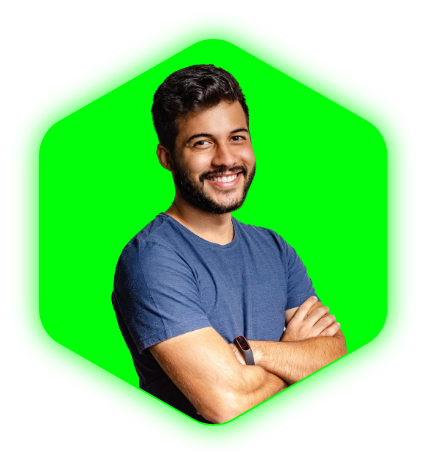
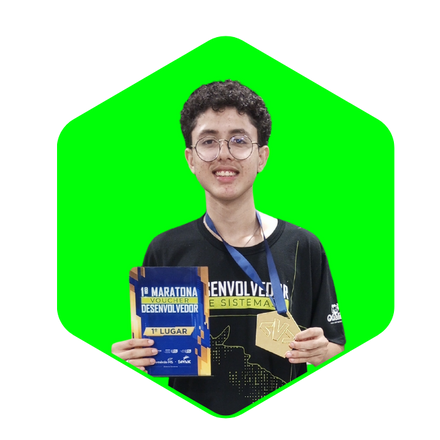
Ultima release

diff --git a/index.html b/index.html
@@ -3,44 +3,35 @@
 <head>
     <meta charset="UTF-8">
     <meta name="viewport" content="width=device-width, initial-scale=1.0">
-    <!-- GOOGLE FONTS -->
     <link rel="preconnect" href="https://fonts.googleapis.com">
     <link rel="preconnect" href="https://fonts.gstatic.com" crossorigin>
     <link href="https://fonts.googleapis.com/css2?family=Poppins:ital,wght@0,100;0,200;0,300;0,400;0,500;0,600;0,700;0,800;0,900;1,100;1,200;1,300;1,400;1,500;1,600;1,700;1,800;1,900&display=swap" rel="stylesheet">
-    <!-- FIM GOOGLE FONTES -->
-    <!-- BOOTSTRAP ICONS -->
     <link rel="stylesheet" href="https://cdn.jsdelivr.net/npm/bootstrap-icons@1.10.5/font/bootstrap-icons.css">
-    <!-- FIM BOOTSTRAP ICONS -->
     <link rel="stylesheet" href="style.css">
 
     <script src="menu.js" defer></script>
 
-    <title>Agência BRN</title>
+    <title>Carlos Eduardo</title>
 </head>
 <body>
     
     <header>
         <div class="interface">
-            <div class="logo">
-                <a href="#">
-                    <img src="images/logo.png" alt="Logo da Agência BRN">
-                </a>
-            </div><!--logo-->
 
             <nav class="menu-desktop">
                 <ul>
-                    <li><a href="#">Início</a></li>
-                    <li><a href="#">Especialidades</a></li>
-                    <li><a href="#">Sobre</a></li>
-                    <li><a href="#">Projetos</a></li>
+                    <li><a href="#especiliadades">Especialidades</a></li>
+                    <li><a href="#sobre">Sobre</a></li>
                 </ul>
             </nav>
 
             <div class="btn-contato">
-                <a href="#">
-                    <button>Contato</button>
+                <a href="Mailto:carlosborges2007edu@gmail.com">
+                    <button><i class="bi bi-envelope-fill"></i></button>
                 </a>
-            </div><!--btn-contato-->
+                <a href="https://www.linkedin.com/in/yonnnxr"><button><i class="bi bi-linkedin"></i></button></a>
+                <a href="https://github.com/yonnnxr"><button><i class="bi bi-github"></i></button></a>
+            </div>
 
             <div class="btn-abrir-menu" id="btn-menu">
                 <i class="bi bi-list"></i>
@@ -53,17 +44,14 @@
 
                 <nav>
                     <ul>
-                        <li><a href="#">Início</a></li>
-                        <li><a href="#">Especialidades</a></li>
-                        <li><a href="#">Sobre</a></li>
-                        <li><a href="#">Projetos</a></li>
-                        <li><a href="#">Contato</a></li>
+                        <li><a href="#especialidades">Especialidades</a></li>
+                        <li><a href="#sobre">Sobre</a></li>
                     </ul>
                 </nav>
 
-            </div><!--menu-mobile-->
+            </div>
             <div class="overlay-menu" id="overlay-menu"></div>
-        </div><!--interface-->
+        </div>
     </header>
 
     <main>
@@ -71,121 +59,84 @@
             <div class="interface">
                 <div class="flex">
                     <div class="txt-topo-site">
-                        <h1>TRANSFORMANDO IDEIAS EM REALIDADE DIGITAL<span>.</span></h1>
-                        <p>Criatividade e inovação andam lado a lado. Com uma combinação única de design impactante, funcionalidade intuitiva e otimização para resultados, estou pronto(a) para criar a presença online dos seus sonhos.</p>
+                        <h1>Olá, Eu me chamo Carlos Eduardo e sou estudante de <span>Desenvolvimento De Sistemas.</span></h1>
+                        <p>Olá meu nome é Carlos Eduardo, um estudante de Desenvolvimento de Sistemas em constante evolução!
+                            
+                            Atualmente, estou explorando diferentes tecnologias e buscando aprimorar meus conhecimentos em PHP , Javascript e C++. Convido você a me conhecer melhor através do meu LinkedIn e GitHub, onde compartilho minhas experiências e aprendizados.</p>
 
                         <div class="btn-contato">
-                            <a href="#">
-                                <button>Entre em contato</button>
+                            <a href="https://github.com/yonnnxr">
+                                <button>Veja meus Projetos</button>
                             </a>
                         </div>
-                    </div><!--txt-topo-site-->
+                    </div>
 
                     <div class="img-topo-site">
                         <img src="images/pessoa.png" alt="">
-                    </div><!--img-topo-site-->
-                </div><!--flex-->
-            </div><!--interface-->
-        </section><!--topo-do-site-->
+                    </div>
+                </div>
+            </div>
+        </section>
 
-        <section class="especiliadades">
+        <section id='especiliadades'class="especiliadades">
             <div class="interface">
                 <h2 class="titulo">MINHAS <span>ESPECIALIDADES.</span></h2>
                 <div class="flex">
                     <div class="especialidades-box">
-                        <i class="bi bi-code-square"></i>
-                        <h3>Website</h3>
-                        <p>Lorem ipsum dolor sit amet consectetur adipisicing elit. Tempore, nulla rem dolore inventore delectus at.</p>
-                    </div><!--especialidades-box-->
+                        <i class="bi bi-code-slash"></i>
+                        <h3>Back-end:</h3>
+                        <p>Desenvolvo soluções robustas e eficientes para o back-end, utilizando minhas habilidades em linguagens como Python, C++ e PHP.</p>
+                    </div>
 
                     <div class="especialidades-box">
-                        <i class="bi bi-cart"></i>
-                        <h3>Loja online</h3>
-                        <p>Lorem ipsum dolor sit amet consectetur adipisicing elit. Tempore, nulla rem dolore inventore delectus at.</p>
-                    </div><!--especialidades-box-->
+                        <i class="bi bi-window-sidebar"></i>
+                        <h3>Front-end:</h3>
+                        <p>Crio interfaces web intuitivas e eficazes, que proporcionam experiências envolventes e memoráveis para o usuário. Dominando as linguagens essenciais do front-end (HTML, CSS e JavaScript).</p>
+                    </div>
 
                     <div class="especialidades-box">
-                        <i class="bi bi-wordpress"></i>
-                        <h3>Blog</h3>
-                        <p>Lorem ipsum dolor sit amet consectetur adipisicing elit. Tempore, nulla rem dolore inventore delectus at.</p>
-                    </div><!--especialidades-box-->
-                </div><!--flex-->
-            </div><!--interface-->
-        </section><!--especiliadades-->
+                        <i class="bi bi-people-fill"></i>
+                        <h3>Outras Habilidades:</h3>
+                        <p>Trabalho de forma organizada e colaborativa, aplicando metodologias ágeis para garantir a eficiência do desenvolvimento. Domino ferramentas essenciais como Git para versionamento de código, além de plataformas de comunicação e organização de tarefas, que facilitam o trabalho em equipe e a gestão de projetos."
 
-        <section class="sobre">
+                        </p>
+                    </div>
+                </div>
+            </div>
+        </section>
+
+        <section id='sobre'class="sobre">
             <div class="interface">
                 <div class="flex">
                     <div class="img-sobre">
                         <img src="images/foto.png" alt="">
-                    </div><!--img-sobre-->
+                    </div>
 
                     <div class="txt-sobre">
-                        <h2>MUITO PRAZER, <span>SOU BRUNO RODRIGUES.</span></h2>
-                        <p>Lorem ipsum dolor, sit amet consectetur adipisicing elit. At accusantium ducimus dicta suscipit, neque cumque sunt tenetur totam delectus magnam minus ratione. Quidem sequi velit voluptatibus eos omnis ullam officiis.</p>
-                        <p>Lorem ipsum dolor, sit amet consectetur adipisicing elit. Ipsam quidem quae iusto repellendus eaque, ipsum sed voluptate explicabo voluptas, dolorum porro sequi laudantium? Obcaecati quae, dolores illo officiis a numquam.</p>
+                        <h2>MUITO PRAZER, <span>ME CHAMO CARLOS EDUARDO.</span></h2>
+                        <p>Me Chamo Carlos Eduardo, um estudante de Desenvolvimento De Sistemas em constante evolução, movido pela paixão pela programação estou fazendo meus sonhos se tornarem Realidade.</p>
+                        <p>Minha jornada no mundo da tecnologia é guiada pela busca por aprendizado e aprimoramento contínuos. Mergulho de cabeça em cada projeto, explorando as infinitas possibilidades que o desenvolvimento oferece.</p>
                         <div class="btn-social">
-                            <a href="#"><button><i class="bi bi-instagram"></i></button></a>
-                            <a href="#"><button><i class="bi bi-youtube"></i></button></a>
-                            <a href="#"><button><i class="bi bi-linkedin"></i></button></a>
-                        </div><!--btn-social-->
-                    </div><!--txt-sobre-->
-                </div><!--flex-->
-            </div><!--interface-->
-        </section><!--sobre-->
-
-        <section class="portfolio">
-            <div class="interface">
-                <h2 class="titulo">MEU <span>PORTFÓLIO.</span></h2>
-                <div class="flex">
-                    <div class="img-port" style="background-image: url(images/imagem.jpg);">
-                        <div class="overlay">Projeto 1</div>
+                            <a href="https://github.com/yonnnxr"><button><i class="bi bi-github"></i></button></a>
+                            <a href="https://www.linkedin.com/in/yonnnxr"><button><i class="bi bi-linkedin"></i></button></a>
+                            <a href="Mailto:carlosborges2007edu@gmail.com">
+                                <button><i class="bi bi-envelope-fill"></i></button>
+                        </div>
                     </div>
-                    <div class="img-port" style="background-image: url(images/imagem.jpg);">
-                        <div class="overlay">Projeto 2</div>
-                    </div>
-                    <div class="img-port" style="background-image: url(images/imagem.jpg);">
-                        <div class="overlay">Projeto 3</div>
-                    </div>
-                </div><!--flex-->
-            </div><!--interface-->
-        </section><!--portfolio-->
-
-        <section class="formulario">
-            <div class="interface">
-                <h2 class="titulo">FALA <span>COMIGO.</span></h2>
-
-                <form action="">
-                    <input type="text" name="" id="" placeholder="Seu nome completo:" required>
-                    <input type="text" name="" id="" placeholder="Seu e-mail:" required>
-                    <input type="text" name="" id="" placeholder="Seu celular:">
-                    <textarea name="" id="" placeholder="Sua mensagem" required></textarea>
-                    <div class="btn-enviar"><input type="submit" value="ENVIAR"></div>
-                </form>
-            </div><!--interface-->
-        </section><!--formulario-->
-
+                </div>
+            </div>
+        </section>
     </main>
 
     <footer>
         <div class="interface">
             <div class="line-footer">
-                <div class="flex">
-                    <div class="logo-footer">
-                        <img src="images/logo.png" alt="Logotipo Agência BRN">
-                    </div><!--logo-footer-->
-                    <div class="btn-social">
-                        <a href="#"><button><i class="bi bi-instagram"></i></button></a>
-                        <a href="#"><button><i class="bi bi-youtube"></i></button></a>
-                        <a href="#"><button><i class="bi bi-linkedin"></i></button></a>
-                    </div><!--btn-social-->
-                </div>
-            </div><!--line-footer-->
+            </div>
 
             <div class="line-footer borda">
-                <p><i class="bi bi-envelope-fill"></i> <a href="mailto:contato@bruno.com.br">contato@bruno.com.br</a></p>
-            </div><!--line-footer-->
-        </div><!--interface-->
+                <p><i class="bi bi-envelope-fill"></i> <a href="mailto:carlosborges2007edu@gmail.com">carlosborges2007edu@gmail.com</a></p>
+            </div>
+        </div>
     </footer>
 
 </body>

diff --git a/style.css b/style.css
@@ -1,4 +1,4 @@
-/* ESTILO GERAL */
+
 * {
     margin: 0;
     padding: 0;
@@ -47,7 +47,6 @@ form .btn-enviar input:hover {
     transform: scale(1.05);
 }
 
-/* ESTILO DO CABEÇALHO */
 header {
     padding: 40px 4%;
 }
@@ -79,7 +78,6 @@ header nav.menu-desktop ul li {
     padding: 0 40px;
 }
 
-/* ESTILO DO MENU MOBILE */
 
 .btn-abrir-menu{
     display: none;
@@ -190,7 +188,6 @@ section.topo-do-site .flex {
     }
 }
 
-/* ESTILO DAS ESPECIALIDADES */
 section.especiliadades {
     padding: 40px 4%;
 }
@@ -222,7 +219,6 @@ section.especiliadades .flex {
     margin: 15px 0;
 }
 
-/* ESTILO DO SOBRE */
 section.sobre {
     padding: 80px 4%;
 }
@@ -264,7 +260,6 @@ section.sobre .flex {
     transition: .2s;
 }
 
-/* ESTILO DO PORTFÓLIO */
 section.portfolio {
     padding: 80px 4%;
     box-shadow: 0 0 40px 10px #ffffff1d;
@@ -312,7 +307,6 @@ section.portfolio .flex {
     opacity: 1;
 }
 
-/* ESTILO DO FORMULÁRIO DE CONTATO */
 section.formulario {
     padding: 80px 4%;
 }
@@ -358,7 +352,6 @@ form .btn-enviar input {
     transition: .2s;
 }
 
-/* ESTILO DO RODAPÉ */
 
 footer {
     padding: 40px 4%;
@@ -388,7 +381,7 @@ footer .line-footer p a {
 
 @media screen and (max-width: 1020px) {
 
-    /* CLASSES GERAIS */
+
     .flex {
         flex-direction: column;
     }
@@ -402,13 +395,11 @@ footer .line-footer p a {
         line-height: 30px;
     }
 
-    /* CABEÇALHO */
     .menu-desktop,
     .btn-contato {
         display: none;
     }
 
-    /* TOPO DO SITE */
 
     section.topo-do-site .flex {
         gap: 40px;
@@ -426,12 +417,10 @@ footer .line-footer p a {
         width: 100%;
     }
 
-    /* ESPECIALIDADES */
     section.especiliadades {
         padding: 40px 8%;
     }
 
-    /* SOBRE */
     section.sobre {
         padding: 80px 8%;
     }
@@ -450,7 +439,6 @@ footer .line-footer p a {
         width: 100%;
     }
 
-    /* PORTFÓLIO */
     section.portfolio {
         padding: 80px 8%;
     }
@@ -465,7 +453,6 @@ footer .line-footer p a {
        gap: 60px;
     }
 
-    /* RODAPÉ */
     footer .flex {
         flex-direction: column;
         gap: 30px;
